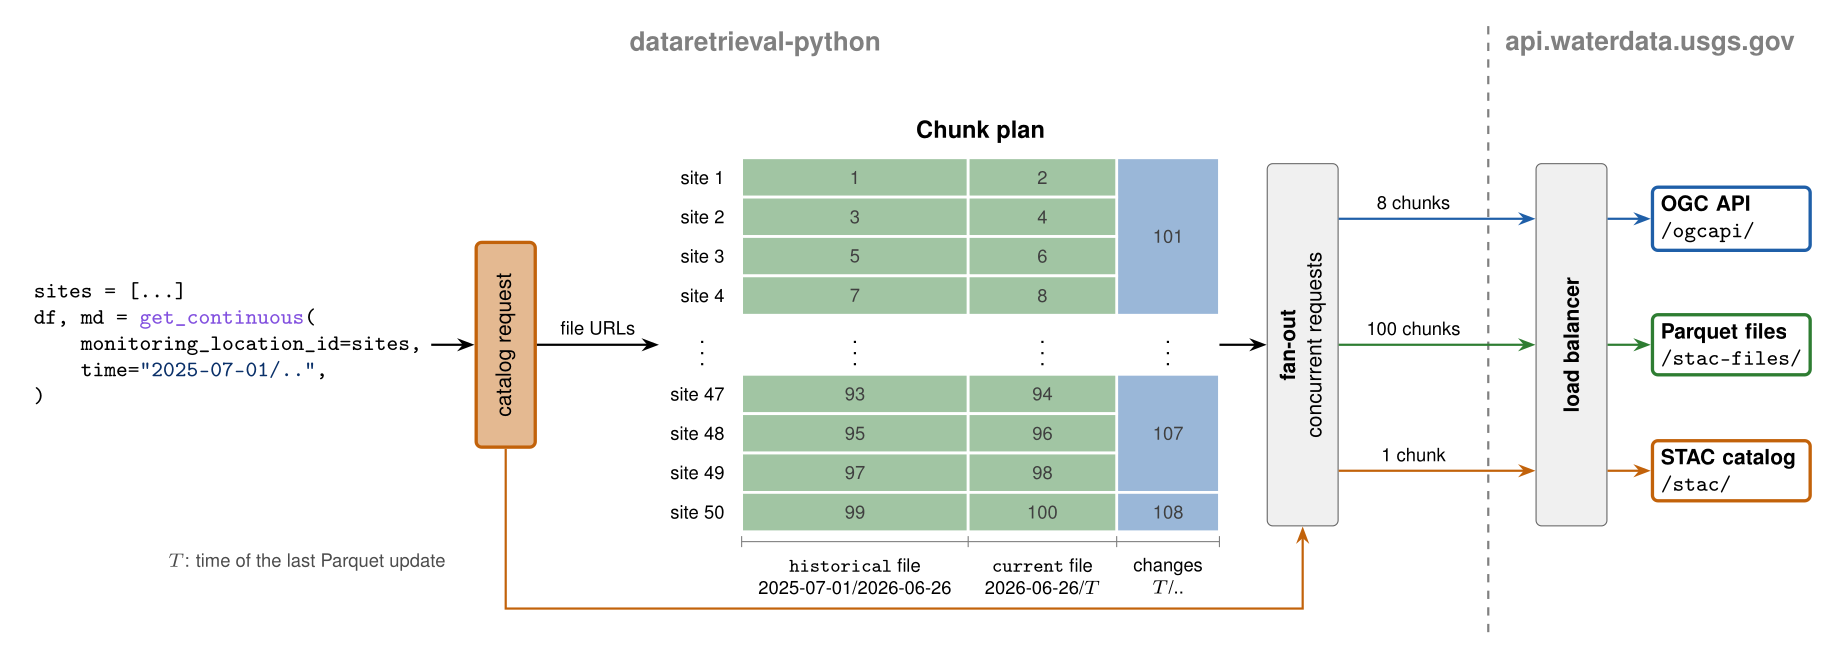
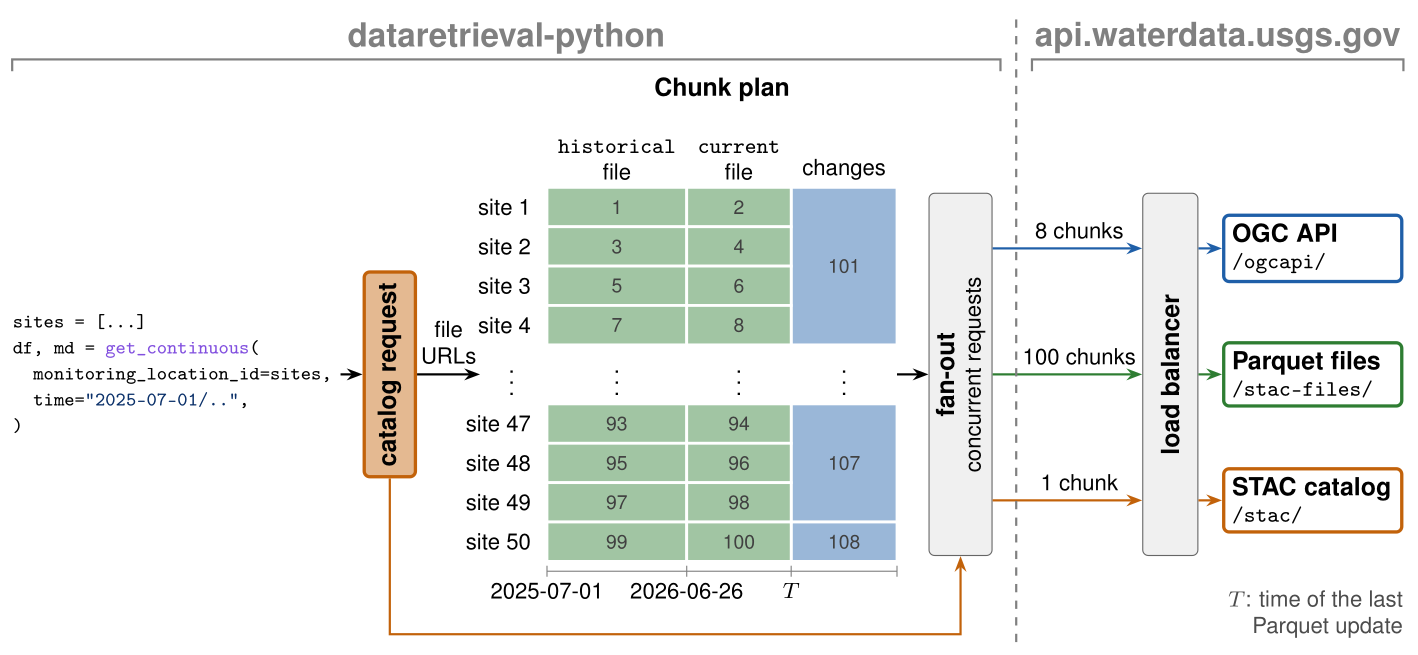
docs(adr): size the ADR 0014 figure for a page-wide print
The figure is drawn at 18 cm, so its type prints at the sizes set: 12 pt
for the two sides, 9 pt bold for each step and endpoint, 8 pt for labels,
7 pt for chunk numbers. A rule under each side's name spans that side, the
file dates move to a time axis under the chunk plan, and the note on T
moves to the bottom right.

diff --git a/docs/source/architecture/decisions/0014-cloud-optimized-architecture.tex b/docs/source/architecture/decisions/0014-cloud-optimized-architecture.tex
@@ -4,20 +4,33 @@
 %
 % Chunks are colored by endpoint and numbered in plan order; the rows hidden
 % by the gap hold chunks 9 to 92 and 102 to 106. Each file column is one of a
-% location's two files, and each column is as wide as its label. A change
-% chunk names 7 locations: 50 split into at most 8 requests. The dashed line
-% is the boundary between dataretrieval-python and the service.
+% location's two files, as wide as its header, and the axis below gives the
+% span of records each holds. A change chunk names 7 locations: 50 split into
+% at most 8 requests. The dashed line is the boundary between
+% dataretrieval-python and the service, and the rule under each side's name
+% spans that side.
+%
+% Drawn at 1:1 for a page-wide figure, 18 cm. Type sizes follow the hierarchy: the
+% two sides 12 pt bold, each step and endpoint 9 pt bold, labels 8 pt, code
+% 7.5 pt (a typewriter face reads larger), chunk numbers 7 pt.
 %
 % Build the PNG that ADR 0014 includes, from this directory:
 %   pdflatex 0014-cloud-optimized-architecture.tex
 %   pdftocairo -png -r 200 -singlefile 0014-cloud-optimized-architecture.pdf \
 %     0014-cloud-optimized-architecture
-\documentclass[tikz,border=8pt]{standalone}
+\documentclass[tikz,border=4pt]{standalone}
 \usepackage[T1]{fontenc}
-\usepackage[scaled]{helvet}
+\usepackage{helvet}
 \renewcommand{\familydefault}{\sfdefault}
 \usepackage{listings}
 \usetikzlibrary{arrows.meta}
+
+% the type hierarchy
+\newcommand{\sidefont}{\fontsize{12}{14}\selectfont\bfseries}
+\newcommand{\stepfont}{\fontsize{9}{11}\selectfont\bfseries}
+\newcommand{\labelfont}{\fontsize{8}{9.6}\selectfont}
+\newcommand{\codefont}{\fontsize{7.5}{9.4}\selectfont}
+\newcommand{\numberfont}{\fontsize{7}{8.4}\selectfont}
 
 % one color per endpoint, and one for the boundary
 \definecolor{cat}{HTML}{C2620A}   % STAC catalog
@@ -31,7 +44,7 @@
 \definecolor{pyname}{HTML}{8250DF}
 \lstdefinestyle{python}{
   language=Python,
-  basicstyle=\ttfamily\footnotesize,
+  basicstyle=\ttfamily\codefont,
   keywordstyle=\color{pykeyword},
   stringstyle=\color{pystring},
   emph={get_continuous}, emphstyle=\color{pyname},
@@ -40,14 +53,17 @@
 }
 
 \begin{document}
+% the code box is as wide as its longest line
+\newlength{\codewidth}
+\settowidth{\codewidth}{\ttfamily\codefont\ \ monitoring\_location\_id=sites,}
 \newsavebox{\querycode}
 \begin{lrbox}{\querycode}
-\begin{minipage}{4.9cm}
+\begin{minipage}{\dimexpr\codewidth+1pt\relax}
 \begin{lstlisting}[style=python]
 sites = [...]
 df, md = get_continuous(
-    monitoring_location_id=sites,
-    time="2025-07-01/..",
+  monitoring_location_id=sites,
+  time="2025-07-01/..",
 )
 \end{lstlisting}
 \end{minipage}
@@ -55,28 +71,28 @@ df, md = get_continuous(
 
 % the endpoint boxes are as wide as their widest line
 \newlength{\boxwidth}
-\newlength{\widthA}\settowidth{\widthA}{\sffamily\footnotesize\bfseries Parquet files}
-\newlength{\widthB}\settowidth{\widthB}{\sffamily\footnotesize\bfseries STAC catalog}
-\newlength{\widthC}\settowidth{\widthC}{\ttfamily\footnotesize /stac-files/}
-\pgfmathsetlength{\boxwidth}{max(\widthA, \widthB, \widthC)}
+\newlength{\widthA}\settowidth{\widthA}{\stepfont Parquet files}
+\newlength{\widthB}\settowidth{\widthB}{\stepfont STAC catalog}
+\newlength{\widthC}\settowidth{\widthC}{\ttfamily\labelfont /stac-files/}
+\pgfmathsetlength{\boxwidth}{max(\widthA, \widthB, \widthC) + 1pt}
 
 \begin{tikzpicture}[
-  font=\sffamily\footnotesize,
-  >={Stealth[length=2.2mm]},
+  font=\labelfont,
+  >={Stealth[length=2mm]},
   chunk/.style={fill=#1!45, draw=white, line width=1pt},
-  number/.style={font=\sffamily\scriptsize, text=black!75},
-  axislabel/.style={font=\sffamily\scriptsize},
-  column/.style={axislabel, anchor=north west, inner xsep=6pt, outer sep=0pt,
-    align=center},
+  number/.style={font=\numberfont, text=black!75},
+  header/.style={anchor=south west, inner xsep=4pt, inner ysep=2pt,
+    outer sep=0pt, align=center},
+  tick/.style={anchor=north, inner sep=2pt},
   flow/.style={->, thick},
   send/.style={->, thick, draw=#1},
-  count/.style={above, font=\sffamily\scriptsize},
+  count/.style={above},
   stage/.style={draw=black!60, fill=black!6, rounded corners=2pt,
-    minimum width=0.9cm, minimum height=4.6cm, anchor=west},
+    minimum height=4.6cm, anchor=west},
   endpoint/.style={draw=#1, very thick, rounded corners=2pt, align=left,
     fill=white, inner sep=3pt, text width=\boxwidth, anchor=west},
-  region/.style={anchor=south, font=\sffamily\normalsize\bfseries,
-    text=boundary},
+  side/.style={font=\sidefont, text=boundary, anchor=south, inner sep=2pt},
+  scope/.style={boundary, thick},
 ]
 
 % The main flow runs along y = 2.4, through the gap in the chunk plan and
@@ -85,31 +101,28 @@ df, md = get_continuous(
 \def\lanes{api/4.0, fil/2.4, cat/0.8}
 
 % ---------------------------------------------------------------- the query
-\node[inner sep=4pt, anchor=west] (query) at (0, 2.4) {\usebox{\querycode}};
+\node[inner sep=0pt, anchor=west] (query) at (0, 2.4) {\usebox{\querycode}};
 
 % ------------------------------------------------------- the catalog request
 \node[draw=cat, very thick, fill=cat!45, rounded corners=2pt,
-  minimum width=0.75cm, minimum height=2.6cm, anchor=west] (catalog)
-  at ([xshift=0.55cm]query.east) {};
-\node[rotate=90] at (catalog.center) {catalog request};
-\draw[flow] (query.east) -- (catalog.west);
-\node[axislabel, anchor=base east, text=black!70]
-  at ([xshift=-0.25cm]catalog.west |- 0, -0.42) {$T$: time of the last Parquet update};
+  minimum width=0.65cm, minimum height=2.6cm, anchor=west] (catalog)
+  at ([xshift=0.35cm]query.east) {};
+\node[rotate=90, font=\stepfont] at (catalog.center) {catalog request};
+\draw[flow] ([xshift=2pt]query.east) -- (catalog.west);
 
 % ------------------------------------------------------------ the chunk plan
 % Rows: one site each, 0.5 high; sites 1 to 4, a gap, sites 47 to 50.
-% Columns: a location's two files, then the changes since. The labels,
+% Columns: a location's two files, then the changes since. The headers,
 % placed first, set each column's width.
-\coordinate (plan west) at ([xshift=1.55cm]catalog.east);
-\draw[flow] (catalog.east) -- node[count] {file URLs} (plan west);
-\coordinate (grid west) at ([xshift=1.05cm]plan west);
-\node[column] (c1) at (grid west |- 0, -0.2) {\texttt{historical} file\\2025-07-01/2026-06-26};
-\node[column] (c2) at (c1.north east) {\texttt{current} file\\2026-06-26/$T$};
-\node[column] (c3) at (c2.north east) {changes\\$T$/..};
+\coordinate (plan west) at ([xshift=0.8cm]catalog.east);
+\draw[flow] (catalog.east) -- node[count, align=center] {file\\URLs} (plan west);
+\coordinate (grid west) at ([xshift=0.85cm]plan west);
+\node[header] (c1) at (grid west |- 0, 4.8) {\texttt{historical}\\file};
+\node[header] (c2) at (c1.south east) {\texttt{current}\\file};
+\node[header] (c3) at (c2.south east) {changes};
 
 \path (c1.west) -- (c3.east) coordinate[midway] (grid middle);
-\node[anchor=south, font=\sffamily\small\bfseries] at (grid middle |- 0, 4.85)
-  {Chunk plan};
+\node[anchor=south, font=\stepfont] at (grid middle |- 0, 5.75) {Chunk plan};
 
 % Change chunks: 101 holds sites 1 to 7, 107 sites 43 to 49, 108 site 50.
 \foreach \chunk/\top/\bottom/\middle in
@@ -123,55 +136,67 @@ df, md = get_continuous(
   \fill[chunk=fil] (c2.west |- 0, \top-0.5) rectangle (c2.east |- 0, \top);
   \node[number] at (c1 |- 0, \top-0.25) {\the\numexpr 2*\site-1\relax};
   \node[number] at (c2 |- 0, \top-0.25) {\the\numexpr 2*\site\relax};
-  \node[axislabel, anchor=east] at ([xshift=-0.1cm]c1.west |- 0, \top-0.25)
+  \node[anchor=east] at ([xshift=-0.08cm]c1.west |- 0, \top-0.25)
     {site \site};
 }
-\node at ([xshift=-0.5cm]c1.west |- 0, 2.4) {$\vdots$};
-\node at (c1 |- 0, 2.4) {$\vdots$};
-\node at (c2 |- 0, 2.4) {$\vdots$};
-\node at (c3 |- 0, 2.4) {$\vdots$};
+\node at ([xshift=-0.45cm]c1.west |- 0, 2.4) {$\vdots$};
+\foreach \c in {c1, c2, c3}
+  \node at (\c |- 0, 2.4) {$\vdots$};
 
-% x axis: one interval per column
+% Time axis: the span of records in each file, then the changes since T.
 \draw[black!50] (c1.west |- 0, -0.1) -- (c3.east |- 0, -0.1);
-\foreach \edge in {c1.west, c1.east, c2.east, c3.east}
+\foreach \edge/\when in {c1.west/2025-07-01, c1.east/2026-06-26, c2.east/$T$,
+                         c3.east/{}} {
   \draw[black!50] (\edge |- 0, -0.03) -- (\edge |- 0, -0.17);
+  \node[tick] at (\edge |- 0, -0.17) {\when};
+}
 
 % ------------------------------------------------------------- the fan-out
 % The catalog request, the file chunks, and the change chunks all run on it.
 % The catalog request passes under the plan and enters from below.
-\node[stage] (fanout) at ([xshift=0.6cm]c3.east |- 0, 2.4) {};
+\node[stage, minimum width=0.8cm] (fanout) at ([xshift=0.4cm]c3.east |- 0, 2.4) {};
 \node[align=center, rotate=90] at (fanout.center)
-  {\textbf{fan-out}\\concurrent requests};
+  {{\stepfont fan-out}\\concurrent requests};
 \draw[flow] (c3.east |- 0, 2.4) -- (fanout.west |- 0, 2.4);
-\draw[send=cat] (catalog.south) -- (catalog.south |- 0, -0.95) -| (fanout.south);
+\draw[send=cat] (catalog.south) -- (catalog.south |- 0, -0.9) -| (fanout.south);
 
 % --------------------------------------- the boundary and the load balancer
-\coordinate (boundary) at ([xshift=1.9cm]fanout.east);
-\draw[boundary, dashed, thick] (boundary |- 0, -1.25) -- (boundary |- 0, 6.45);
-\node[stage] (lb) at ([xshift=0.6cm]boundary |- 0, 2.4) {};
-\node[rotate=90, font=\sffamily\footnotesize\bfseries] at (lb.center)
-  {load balancer};
+% Each request crosses the boundary as it leaves the fan-out.
+\coordinate (boundary) at ([xshift=0.3cm]fanout.east);
+\node[stage, minimum width=0.7cm] (lb) at ([xshift=1.6cm]boundary |- 0, 2.4) {};
+\node[rotate=90, font=\stepfont] at (lb.center) {load balancer};
 
 \foreach \lane/\y in \lanes
   \draw[send=\lane] (fanout.east |- 0, \y) -- (lb.west |- 0, \y);
+\path (boundary) -- (lb.west |- boundary) coordinate[midway] (counts);
 \foreach \y/\label in {4.0/8 chunks, 2.4/100 chunks, 0.8/1 chunk}
-  \node[count] at ([xshift=0.95cm]fanout.east |- 0, \y) {\label};
+  \node[count] at (counts |- 0, \y) {\label};
 
 % ---------------------------------------------------------------- endpoints
-\node[endpoint=api] (ogc)   at ([xshift=0.55cm]lb.east |- 0, 4.0)
-  {\textbf{OGC API}\\\texttt{/ogcapi/}};
-\node[endpoint=fil] (files) at ([xshift=0.55cm]lb.east |- 0, 2.4)
-  {\textbf{Parquet files}\\\texttt{/stac-files/}};
-\node[endpoint=cat] (stac)  at ([xshift=0.55cm]lb.east |- 0, 0.8)
-  {\textbf{STAC catalog}\\\texttt{/stac/}};
+\node[endpoint=api] (ogc)   at ([xshift=0.3cm]lb.east |- 0, 4.0)
+  {{\stepfont OGC API}\\\texttt{/ogcapi/}};
+\node[endpoint=fil] (files) at ([xshift=0.3cm]lb.east |- 0, 2.4)
+  {{\stepfont Parquet files}\\\texttt{/stac-files/}};
+\node[endpoint=cat] (stac)  at ([xshift=0.3cm]lb.east |- 0, 0.8)
+  {{\stepfont STAC catalog}\\\texttt{/stac/}};
 \foreach \lane/\y in \lanes
-  \draw[send=\lane] (lb.east |- 0, \y) -- ([xshift=0.55cm]lb.east |- 0, \y);
+  \draw[send=\lane] (lb.east |- 0, \y) -- ([xshift=0.3cm]lb.east |- 0, \y);
+
+\node[anchor=south east, align=right, text=black!70, inner sep=0pt]
+  at (files.east |- 0, -0.95) {$T$: time of the last\\Parquet update};
 
 % ----------------------------------------------------------- the two sides
-\path (query.west |- 0, 5.95) -- (boundary |- 0, 5.95)
-  node[region, midway] {dataretrieval-python};
-\path (boundary |- 0, 5.95) -- (files.east |- 0, 5.95)
-  node[region, midway] {api.waterdata.usgs.gov};
+% A rule under each side's name spans that side, up to the boundary.
+\def\ruley{6.4}
+\draw[boundary, dashed, thick] (boundary |- 0, -1.0) -- (boundary |- 0, 7.0);
+\coordinate (client east) at ([xshift=-0.2cm]boundary);
+\coordinate (service west) at ([xshift=0.2cm]boundary);
+\foreach \west/\east/\name in {query.west/client east/dataretrieval-python,
+    service west/files.east/api.waterdata.usgs.gov} {
+  \draw[scope] (\west |- 0, \ruley-0.15) -- (\west |- 0, \ruley)
+    -- (\east |- 0, \ruley) -- (\east |- 0, \ruley-0.15);
+  \path (\west |- 0, \ruley) -- (\east |- 0, \ruley) node[side, midway] {\name};
+}
 
 \end{tikzpicture}
 \end{document}
